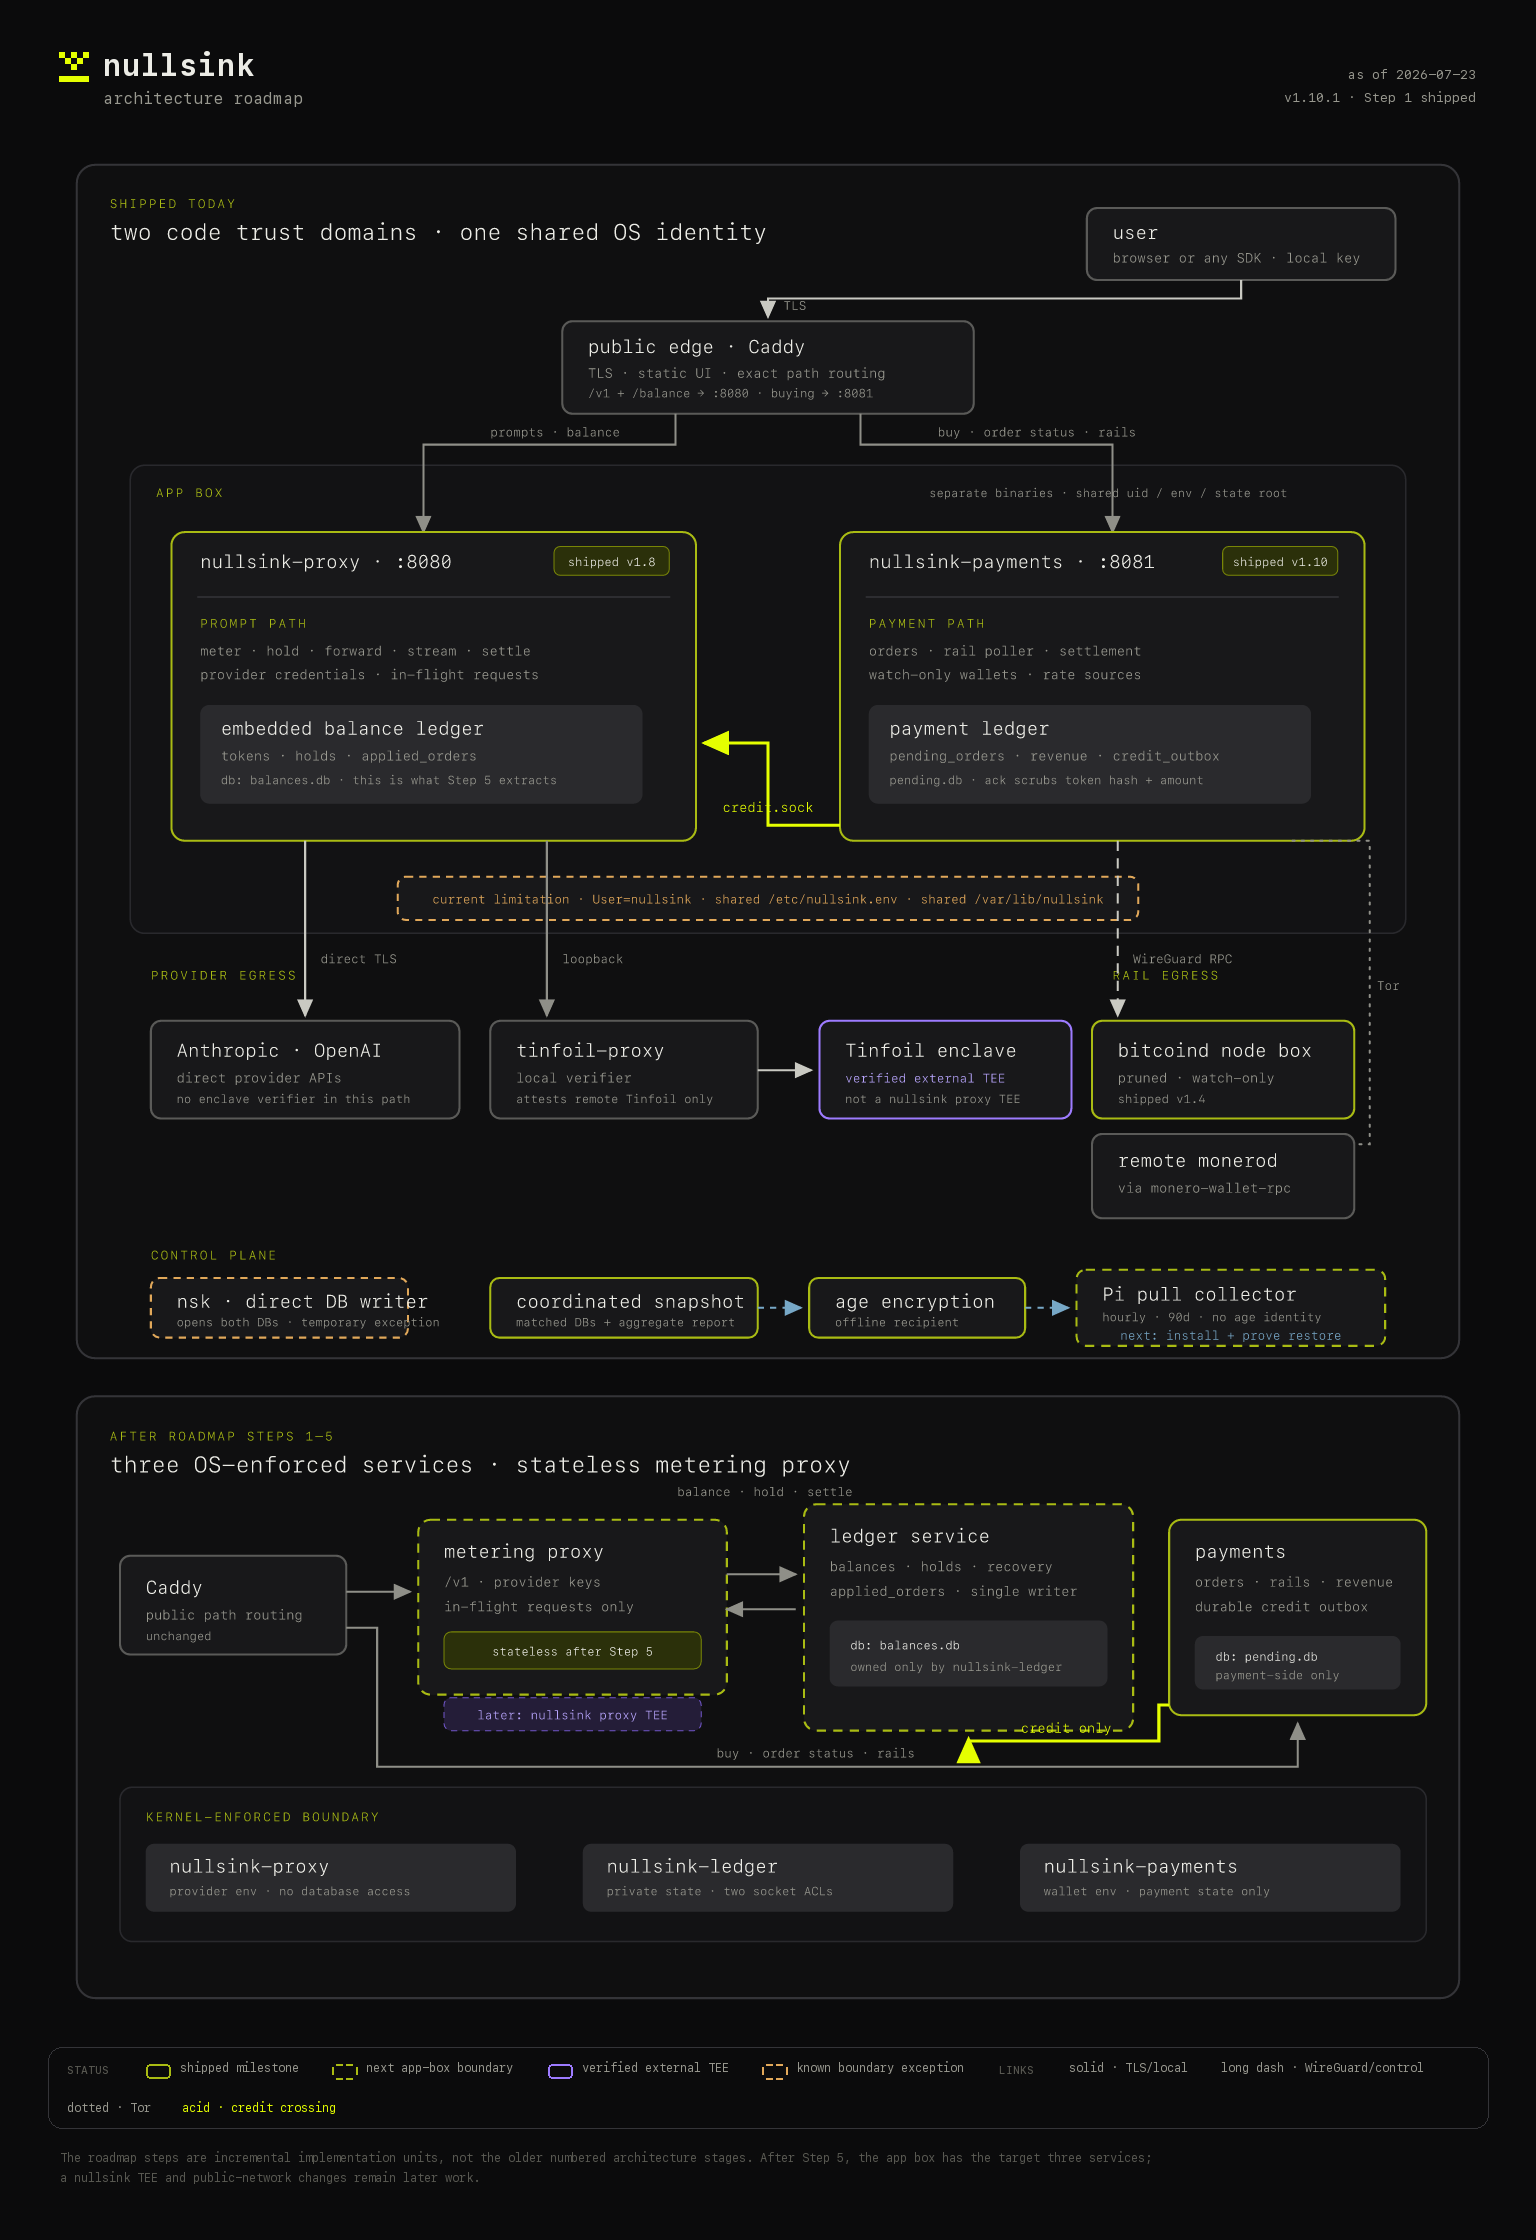
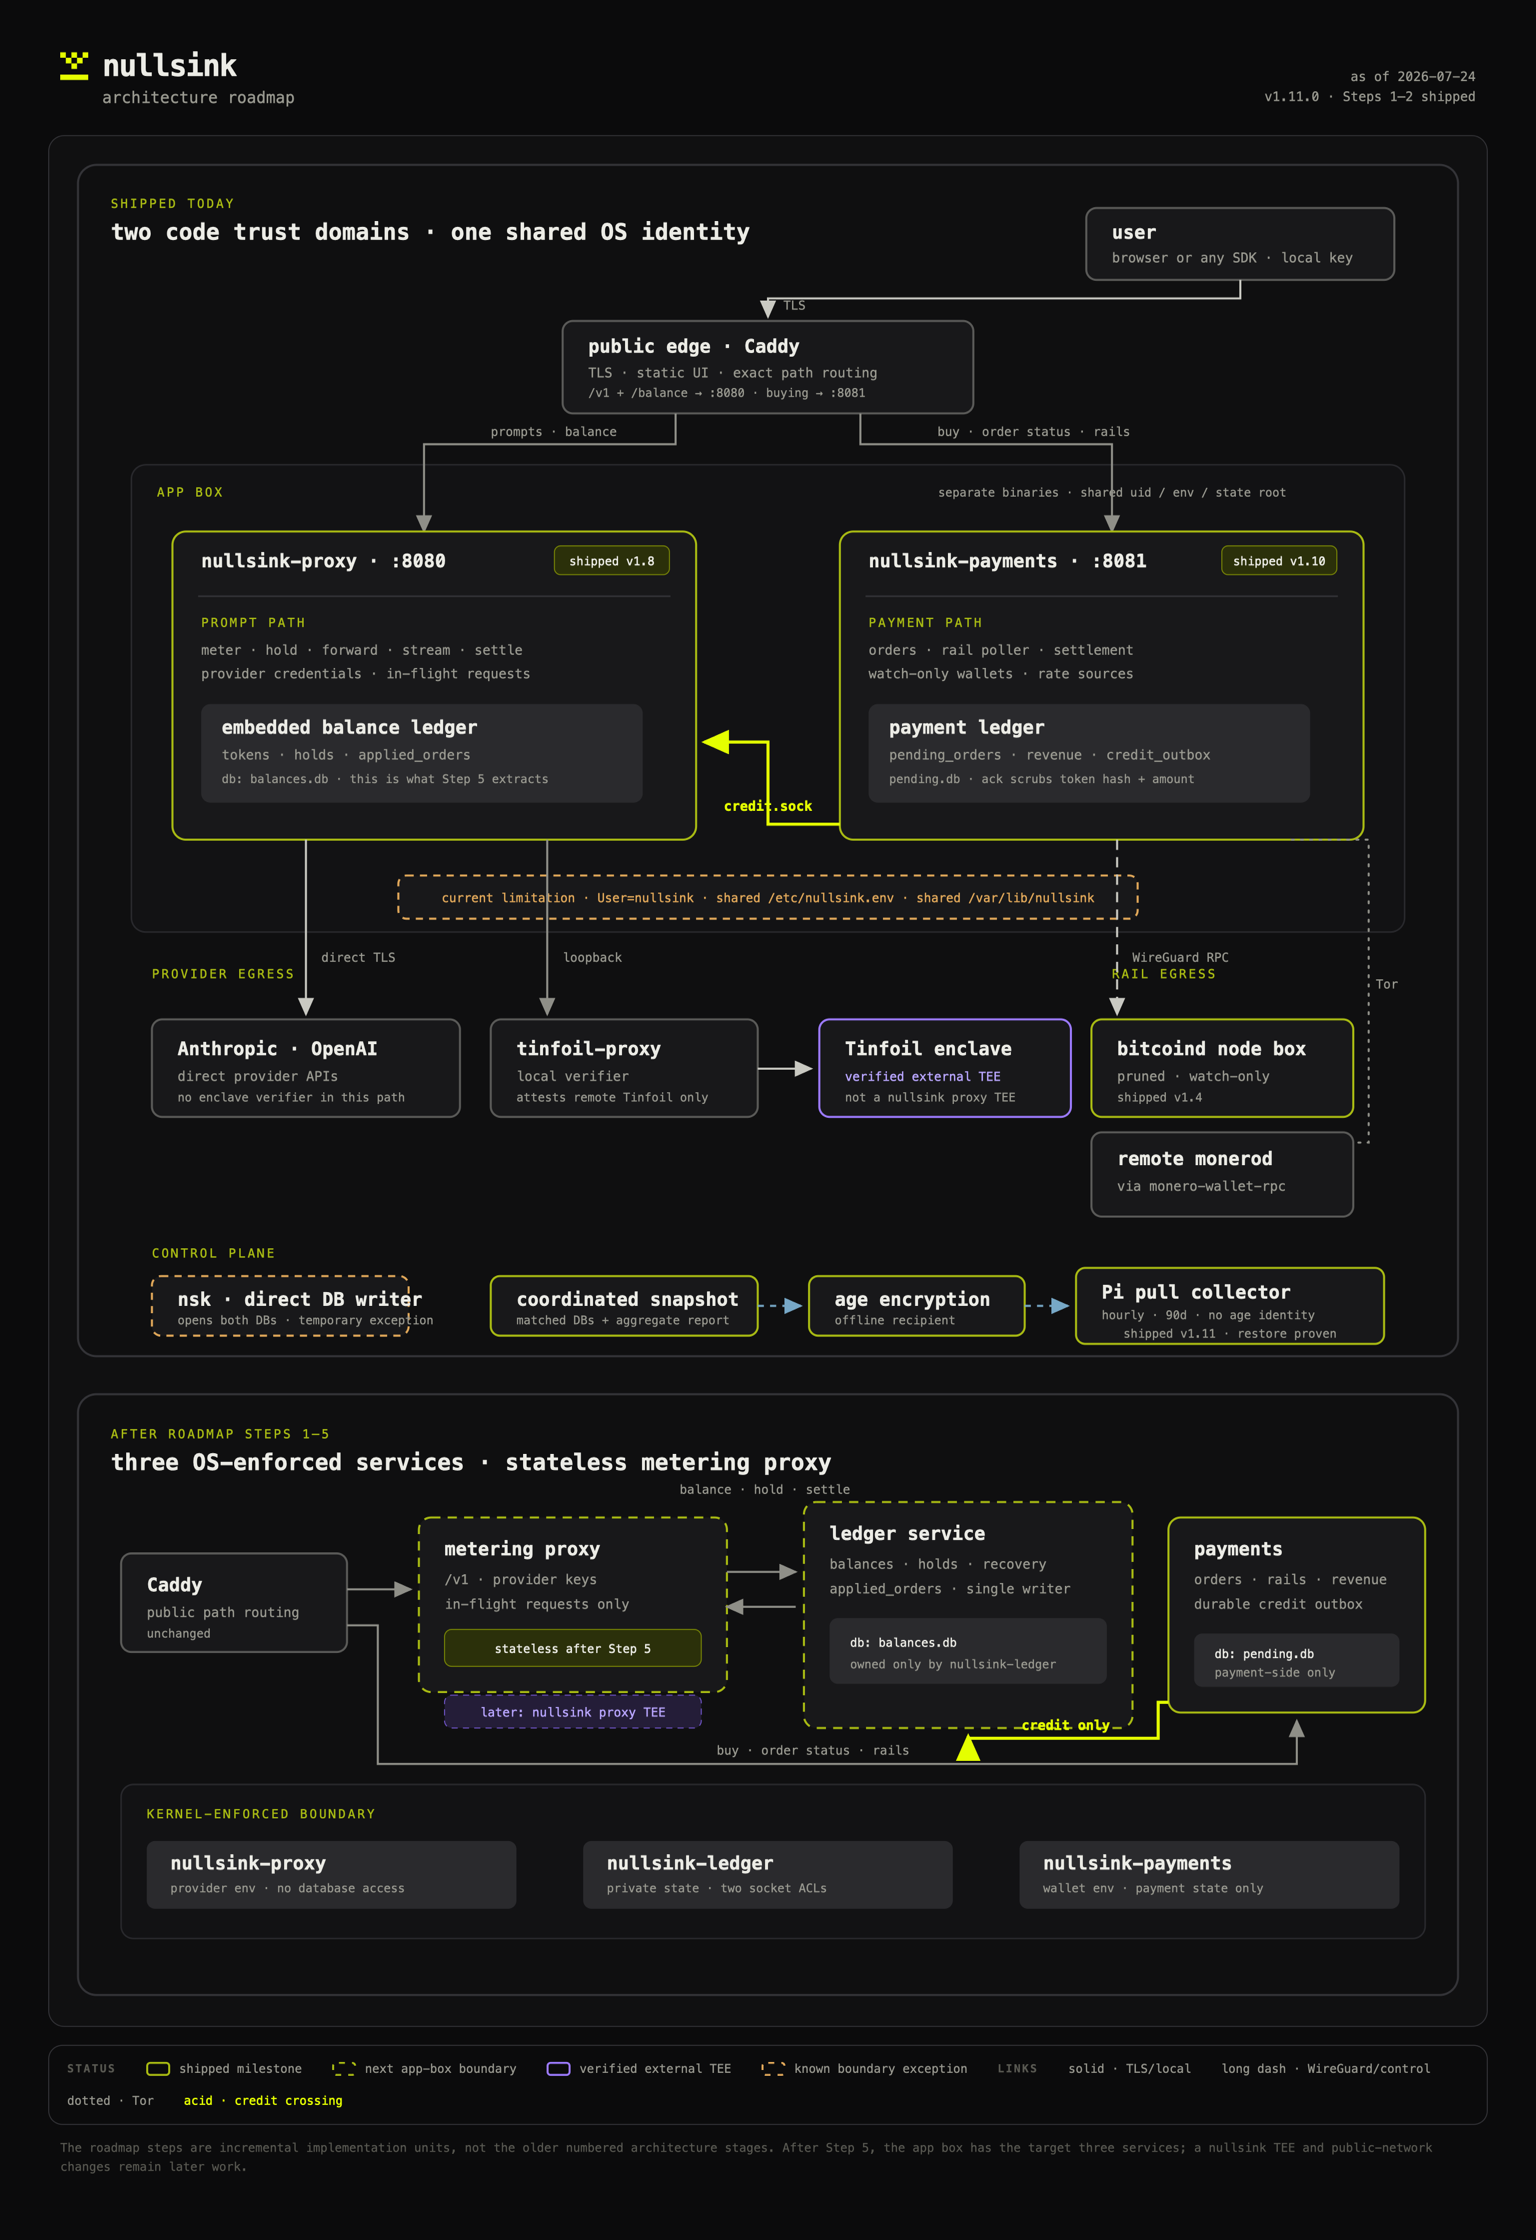
docs: mark backup collector operational
Record the successful manual and scheduled Pi pulls plus the offline recovery drill, and mark Step 2 shipped in the roadmap source and rendered artifact.

diff --git a/docs/architecture-roadmap.html b/docs/architecture-roadmap.html
@@ -99,13 +99,13 @@
       </div>
       <div class="subtitle">architecture roadmap</div>
     </div>
-    <div class="stamp">as of 2026-07-23<br>v1.10.1 · Step 1 shipped</div>
+    <div class="stamp">as of 2026-07-24<br>v1.11.0 · Steps 1–2 shipped</div>
   </header>
 
   <div class="diagram">
     <svg viewBox="0 0 1400 1840" role="img" aria-labelledby="roadmap-title roadmap-desc">
       <title id="roadmap-title">nullsink shipped architecture and next app-box boundary</title>
-      <desc id="roadmap-desc">The shipped system has Caddy routing to separate proxy and payments processes. The proxy still embeds the balance ledger. Payments delivers durable credits over a Unix socket and version 1.10.1 scrubs the token hash and amount after definite acknowledgement. Coordinated encrypted recovery artifacts and aggregate reports are produced on the app box; the next operational gate is installing the pull-only Raspberry Pi collector. Anthropic and OpenAI are reached directly, while only Tinfoil uses an enclave-verifying sidecar. After roadmap steps one through five, a third ledger service owns balances and the proxy becomes stateless, with separate operating-system identities for all services.</desc>
+      <desc id="roadmap-desc">The shipped system has Caddy routing to separate proxy and payments processes. The proxy still embeds the balance ledger. Payments delivers durable credits over a Unix socket and version 1.10.1 scrubs the token hash and amount after definite acknowledgement. Version 1.11.0 ships coordinated encrypted recovery artifacts and aggregate reports through a restricted read-only export to an hourly Raspberry Pi collector; scheduled pulling and an offline dry-run restore are proven. Anthropic and OpenAI are reached directly, while only Tinfoil uses an enclave-verifying sidecar. After roadmap steps one through five, a third ledger service owns balances and the proxy becomes stateless, with separate operating-system identities for all services.</desc>
       <defs>
         <marker id="arrowBone" markerWidth="10" markerHeight="10" refX="8" refY="4" orient="auto"><path d="M0,0 L9,4 L0,8 Z" fill="#c9c9c2"/></marker>
         <marker id="arrowMuted" markerWidth="10" markerHeight="10" refX="8" refY="4" orient="auto"><path d="M0,0 L9,4 L0,8 Z" fill="#8f8f88"/></marker>
@@ -227,10 +227,10 @@
       <text class="title" x="765" y="1139">age encryption</text>
       <text class="copy-small" x="765" y="1157">offline recipient</text>
       <path class="edge-control" d="M950 1139 L992 1139" marker-end="url(#arrowBlue)"/>
-      <rect class="node-planned" x="1000" y="1102" width="300" height="74" rx="9"/>
+      <rect class="node-shipped" x="1000" y="1102" width="300" height="74" rx="9"/>
       <text class="title" x="1025" y="1132">Pi pull collector</text>
       <text class="copy-small" x="1025" y="1152">hourly · 90d · no age identity</text>
-      <text class="label-blue" x="1150" y="1170" text-anchor="middle">next: install + prove restore</text>
+      <text class="copy-small" x="1150" y="1170" text-anchor="middle">shipped v1.11 · restore proven</text>
 
       <!-- AFTER STEPS 1-5 -->
       <rect class="panel" x="28" y="1225" width="1344" height="585" rx="18"/>

diff --git a/docs/architecture-roadmap.md b/docs/architecture-roadmap.md
@@ -6,7 +6,7 @@ artifact is [`architecture-roadmap.png`](architecture-roadmap.png).
 
 ![nullsink architecture: shipped today and the next app-box boundary](architecture-roadmap.png)
 
-## Status — 2026-07-23, v1.10.1
+## Status — 2026-07-24, v1.11.0
 
 | Milestone | State | Evidence / remaining boundary |
 | --- | --- | --- |
@@ -14,7 +14,7 @@ artifact is [`architecture-roadmap.png`](architecture-roadmap.png).
 | Proxy/payments process split | **Shipped** in v1.8.0 | Two binaries, two HTTP ports, path routing, transactional credit outbox. |
 | Payment→prompt credit crossing | **Shipped** | At-least-once delivery over a pathname Unix socket; `applied_orders` makes application idempotent. |
 | Delivered-link scrubbing | **Shipped** in v1.10.1 | Definite ack atomically clears hash/amount; 11 legacy acknowledgements migrated idempotently in production; restores verify tombstones against the ledger. |
-| Financial and backup egress | **Producer shipped; collector ready** | v1.10.1 produces/restores the encrypted pair and aggregate report. The pull-only Pi bundle is ready; installing it and proving its first retained restore remain the operational gate. |
+| Financial and backup egress | **Shipped and recovery-proven** in v1.11.0 | Production publishes encrypted pairs through restricted read-only `rrsync`; the Pi pulls hourly, retains 90 days, and holds no `age` identity. Manual and scheduled pulls plus an offline dry-run restore passed in production. |
 | Separate OS principals | **Not started** | Proxy and payments still share `User=nullsink`, `/etc/nullsink.env`, and `/var/lib/nullsink`. |
 | Ledger service | **Not started** | The proxy still owns `balances.db`, holds, and `applied_orders`. |
 | Stateless metering proxy | **Blocked on ledger extraction** | This is the app-box target reached after roadmap steps 1–5 below. |
@@ -57,7 +57,7 @@ Gate: an ambiguous delivery still replays safely; a definite acknowledgement lea
 delivered payment→token link in current database rows. Covered by outbox, socket-drain, migration,
 and backup/restore contract tests.
 
-### 2. Define financial and backup egress
+### 2. Define financial and backup egress — shipped in v1.11.0
 
 Treat backups as a control-plane path, not an application API: create a coordinated SQLite
 snapshot, encrypt it to an offline `age` recipient, and optionally push the ciphertext off-box.
@@ -71,12 +71,15 @@ The production slice shipped in v1.10.1: four-hour pending-first/ledger-second s
 before atomic publication; an offline-recipient `age` artifact is paired with a versioned report containing
 only daily/asset revenue, aggregate liability, and open/undelivered-credit health.
 
-The role-specific `deploy/backup-collector/` bundle completes the repository side of the independent-storage
-slice. Production exposes only finalized files through a forced read-only `rrsync` command. The Pi initiates
-an hourly pull, keeps 90 days, rejects stale or schema-expanded report pairs, records a privacy-safe success
-marker, and optionally pings a dead-man switch. It never receives the private `age` identity. Step 2 becomes
-operationally complete after the bundle is installed on the Pi and one retained artifact passes a dry-run
-restore on the trusted machine.
+The role-specific `deploy/backup-collector/` bundle completes the independent-storage slice. Production
+exposes only finalized files through a forced read-only `rrsync` command. The Pi initiates an hourly pull,
+keeps 90 days, rejects stale or schema-expanded report pairs, records a privacy-safe success marker, and
+optionally pings a dead-man switch. It never receives the private `age` identity.
+
+The operational gate passed on 2026-07-24: the restricted manual pull validated the newest pair, systemd
+completed the first scheduled pull, and a retained Pi ciphertext passed the reviewed release's dry-run
+restore on the trusted machine with the offline identity. No plaintext database or decryption identity
+crossed into the collector.
 
 ### 3. Retire direct database access by `nsk`
 
